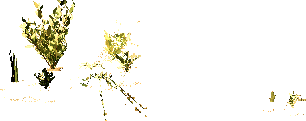
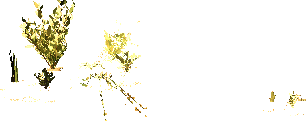
Title screen: bloom, halation and a mist glow; the window looks out at the player's city
- The bake's finish adds a tight and a wide bloom, a small red-orange halation fringe on
  bright edges, and a light mist-filter diffusion; the sunlit tunnel's glow also spills
  over the glass, onto the live city.
- While the title is up the game camera drops to a low look-out angle and slides so the
  middle of the player's city sits in the round window, zoomed to fill it; on Continue it
  heads back to the normal view during the push through the window.
- The phone (tall) view turns toward the window so the city shows there too.

Claude-Session: https://claude.ai/code/session_01AoroHLwCxsbXvPU1t255na

diff --git a/js/title.js b/js/title.js
@@ -16,7 +16,7 @@ const TITLE = (() => {
   const gD = cvDust.getContext('2d'), gS = cvSky.getContext('2d'), gP = cvPl.getContext('2d');
   let plSrc = null, plOut = null, plBase = null, plW = 0, plH = 0, clouds = [], plantAt = 0;
   const reduced = matchMedia('(prefers-reduced-motion: reduce)').matches;
-  const VER = '2026-10-18f';
+  const VER = '2026-10-18g';
   let A = null, view = null, W = 0, H = 0, S0 = 1, OX = 0, OY = 0, raf = 0, last = 0, motes = [];
   const anchorsP = fetch('assets/title/anchors.json?v=' + VER).then(r => r.json()).catch(() => null);
 
@@ -110,6 +110,7 @@ const TITLE = (() => {
     if (!T.on) return; raf = requestAnimationFrame(loop);
     const dt = last ? Math.min(.1, (now - last)/1000) : 0; last = now;
     try { if (typeof yawT !== 'undefined' && !reduced) yawT += dt*.02; } catch (e) {}
+    aimCity();
     if (A && view){ drawDust(now, dt); drawClouds(dt); drawPlants(now); }
     // the light bar: steady, and now and then it blinks: a stutter of two or three, or one slow dip
     if (!reduced && now > flickNext){ flick = []; let t = now;
@@ -134,13 +135,30 @@ const TITLE = (() => {
       was = { hour: S.hour, cycle: S.cycle, wx: typeof LK !== 'undefined' ? { mode: LK.wx.mode, set: LK.wx.set } : null, zoomT };
       S.cycle = false; S.hour = 8.6;   // (the room's morning: the city outside matches it)
       if (typeof LK !== 'undefined' && LK.setWeather) LK.setWeather('clear', true, true); else S.rain = false;
-      zoomT = Math.max(7, Math.min(zoomT, 10.5));
+      was.cam = { goal: camGoal.clone(), pitchT };
+      // the player's city, for framing it in the window: the middle of everything built, and how far it reaches
+      let x = 0, z = 0, n = 0; for (const c of cells.values()){ x += c.x; z += c.z; n++; } x = n ? x/n : 0; z = n ? z/n : 0;
+      let r = 0; for (const c of cells.values()) r = Math.max(r, Math.hypot(c.x - x, c.z - z)); CITY = { x, z, r: r + LOT*.8 };
+    } catch (e) { CITY = null; }
+  }
+  // Each frame while the title is up: the camera dropped to a low, looking-out angle and slid so the city sits in the
+  // round window (the picture is placed over the screen, so the window's middle isn't the screen's), zoomed to fill it.
+  let CITY = null;
+  function aimCity(){
+    if (!CITY || !A || !view || root.classList.contains('leaving')) return;
+    try {
+      const a = A[view], wx = OX + a.win[0]*a.w*S0, wy = OY + a.win[1]*a.h*S0, wr = a.winR*S0;
+      const P = 24*Math.PI/180; pitchT = P;
+      zoomT = Math.max(5, Math.min(40, CITY.r*H/(2*.82*Math.max(60, wr))));
+      const k = 2*zoomT/H, ox = (wx - W/2)*k, oy = -(wy - H/2)*k, sy = Math.sin(yaw), cy = Math.cos(yaw);
+      const d = oy/Math.sin(P) - CITY.r*.15;   // (a touch past the middle, so the near edge of the city sits on the sill)
+      camGoal.set(CITY.x - cy*ox + sy*d, TARGET_Y, CITY.z + sy*ox + cy*d);
     } catch (e) {}
   }
   function restoreScene(){
     if (!was) return;
     try {
-      S.hour = was.hour; S.cycle = was.cycle; zoomT = was.zoomT;
+      S.hour = was.hour; S.cycle = was.cycle; zoomT = was.zoomT; if (was.cam){ camGoal.copy(was.cam.goal); pitchT = was.cam.pitchT; }
       if (was.wx && typeof LK !== 'undefined'){ if (was.wx.mode === 'auto') LK.setAutoWeather(true, true); else LK.setWeather(was.wx.set, false, true); }
     } catch (e) {}
     was = null;
@@ -149,7 +167,7 @@ const TITLE = (() => {
     if (T.on) return; T.on = true; document.documentElement.classList.add('title-on'); root.hidden = false; root.classList.remove('leaving');
     setScene(); A = A || await anchorsP;
     if (!A){ T.hide(true); return; }   // (the pictures couldn't be had: straight into the city)
-    layout(); last = 0; raf = requestAnimationFrame(loop); fillNote();
+    layout(); aimCity(); try { camT.copy(camGoal); } catch (e) {} last = 0; raf = requestAnimationFrame(loop); fillNote();
     setTimeout(() => { const c = menu.querySelector('[data-act="continue"]'); if (c) c.focus({ preventScroll: true }); }, 60);
   };
   T.hide = (instant) => {
@@ -157,7 +175,7 @@ const TITLE = (() => {
     closePanel(); setDeck(false);
     if (instant || reduced){ finish(); return; }
     root.classList.add('leaving');
-    try { zoomT = Math.max(6, zoomT*.8); } catch (e) {}
+    try { if (was && was.cam){ camGoal.copy(was.cam.goal); pitchT = was.cam.pitchT; zoomT = was.zoomT; } } catch (e) {}
     setTimeout(finish, 1500);
   };
   function finish(){ T.on = false; cancelAnimationFrame(raf); root.hidden = true; root.classList.remove('leaving'); document.documentElement.classList.remove('title-on'); restoreScene(); try { LAST_INPUT = performance.now(); } catch (e) {} }

diff --git a/tools/title/bake.html b/tools/title/bake.html
@@ -20,7 +20,7 @@ const SCENE = new URLSearchParams(location.search).get('scene') || 'room';
 const VIEWS = SCENE === 'kitchen' ? {
   ref: { w: 600, h: 750, pos: [2.0, 2.33, 1.01], look: [-1.79, 1.28, -8.18], fov: 57.5 },
   wide: { w: 960, h: 540, pos: [2.0, 2.33, 1.01], look: [-1.79, 1.28, -8.18], fov: 45.9 },   // (the owner's camera, wider: the porthole left, the kitchen and the sign right)
-  tall: { w: 540, h: 1170, pos: [2.0, 2.33, 1.01], look: [-.07, 1.28, -8.72], fov: 74 },
+  tall: { w: 540, h: 1170, pos: [2.0, 2.33, 1.01], look: [-1.75, 1.28, -8.2], fov: 86 },
   hi: { w: 1200, h: 1500, pos: [2.0, 2.33, 1.01], look: [-1.79, 1.28, -8.18], fov: 57.5 },   // (checking views: the reference at twice the size, and close-ups)
   counter: { w: 960, h: 600, pos: [.56, 1.55, -2.98], look: [1.23, 1.15, -4.86], fov: 50 },
   table: { w: 800, h: 600, pos: [.9, 1.85, -1.0], look: [-.45, 1.1, -2.27], fov: 48 },
@@ -172,8 +172,16 @@ function finish(room, glass, A){
   const g = room.getContext('2d'), w = room.width, h = room.height;
   const br = document.createElement('canvas'); br.width = w; br.height = h; const gb = br.getContext('2d');
   gb.filter = 'brightness(.9) contrast(2.6) saturate(1.3)'; gb.drawImage(room, 0, 0); gb.filter = 'none';
-  const bl = document.createElement('canvas'); bl.width = w; bl.height = h; const gl = bl.getContext('2d'); gl.filter = 'blur(' + Math.round(h/80) + 'px)'; gl.drawImage(br, 0, 0);
-  g.save(); g.globalCompositeOperation = 'lighter'; g.globalAlpha = .12; g.drawImage(bl, 0, 0); g.restore();
+  const blur = (src, px, f = '') => { const c = document.createElement('canvas'); c.width = w; c.height = h; const cg = c.getContext('2d'); cg.filter = 'blur(' + Math.max(1, Math.round(px)) + 'px)' + f; cg.drawImage(src, 0, 0); return c; };
+  // bloom in two sizes: a tight glow on the brightest things, a wide soft one that lifts the sunlit side of the room
+  const bl = blur(br, h/80), bw = blur(br, h/22);
+  // halation: film's red-orange fringe round bright edges (the light scattering back through the base); small and warm
+  const ha = blur(br, h/140, ' sepia(1) saturate(4) hue-rotate(-28deg) brightness(.8)');
+  // diffusion: the whole picture softly over itself, like a mist filter: the dreamy part, kept light
+  const df = blur(room, h/60);
+  g.save(); g.globalCompositeOperation = 'lighter'; g.globalAlpha = .13; g.drawImage(bl, 0, 0); g.globalAlpha = .09; g.drawImage(bw, 0, 0); g.globalAlpha = .1; g.drawImage(ha, 0, 0);
+  g.globalCompositeOperation = 'screen'; g.globalAlpha = .1; g.drawImage(df, 0, 0); g.restore();
+  finish.glow = bw;
   const im = g.getImageData(0, 0, w, h), d = im.data, B = [0, 8, 2, 10, 12, 4, 14, 6, 3, 11, 1, 9, 15, 7, 13, 5], q = 8;
   let s = 99; const rn = () => (s = (s*16807) % 2147483647)/2147483647;
   for (let y = 0; y < h; y++) for (let x = 0; x < w; x++){ const i = (y*w + x)*4; if (!d[i + 3]) continue; const t = (B[(y & 3)*4 + (x & 3)]/16 - .5)*q + (rn() - .5)*7;
@@ -189,6 +197,7 @@ function finish(room, glass, A){
   gm.restore();
   gm.strokeStyle = 'rgba(255,250,235,.3)'; gm.lineWidth = Math.max(1, r*.02); gm.beginPath(); gm.ellipse(cx, cy, r*.985, r*.985, 0, Math.PI*.95, Math.PI*1.55); gm.stroke();
   for (let i = 0; i < 70; i++){ const a = rn()*7, rr = rn()*r*.95; gm.fillStyle = 'rgba(255,255,255,' + (.05 + rn()*.08) + ')'; const z = 1 + rn()*2; gm.fillRect(cx + Math.cos(a)*rr, cy + Math.sin(a)*rr, z, z); }
+  gm.save(); gm.globalCompositeOperation = 'lighter'; gm.globalAlpha = .35; gm.drawImage(finish.glow, 0, 0); gm.restore();   // (the sunlit tunnel's glow spilling over the glass, onto the city)
   gm.globalCompositeOperation = 'destination-out'; gm.drawImage(room, 0, 0);
   gg.drawImage(mask, 0, 0);
 }

diff --git a/index.html b/index.html
@@ -340,7 +340,7 @@
 <script src="js/overseer.js?v=2026-10-16p"></script>
 <script src="js/wirelog.js?v=2026-10-16q"></script>
 <script src="js/slots.js?v=2026-10-18a"></script>
-<script src="js/title.js?v=2026-10-18f"></script>
+<script src="js/title.js?v=2026-10-18g"></script>
 <script>document.getElementById('toTitle').addEventListener('click', () => { const tg = document.getElementById('deckToggle'); if (document.getElementById('deck').classList.contains('open')) tg.click(); TITLE.show(); });</script>
 </body>
 </html>
